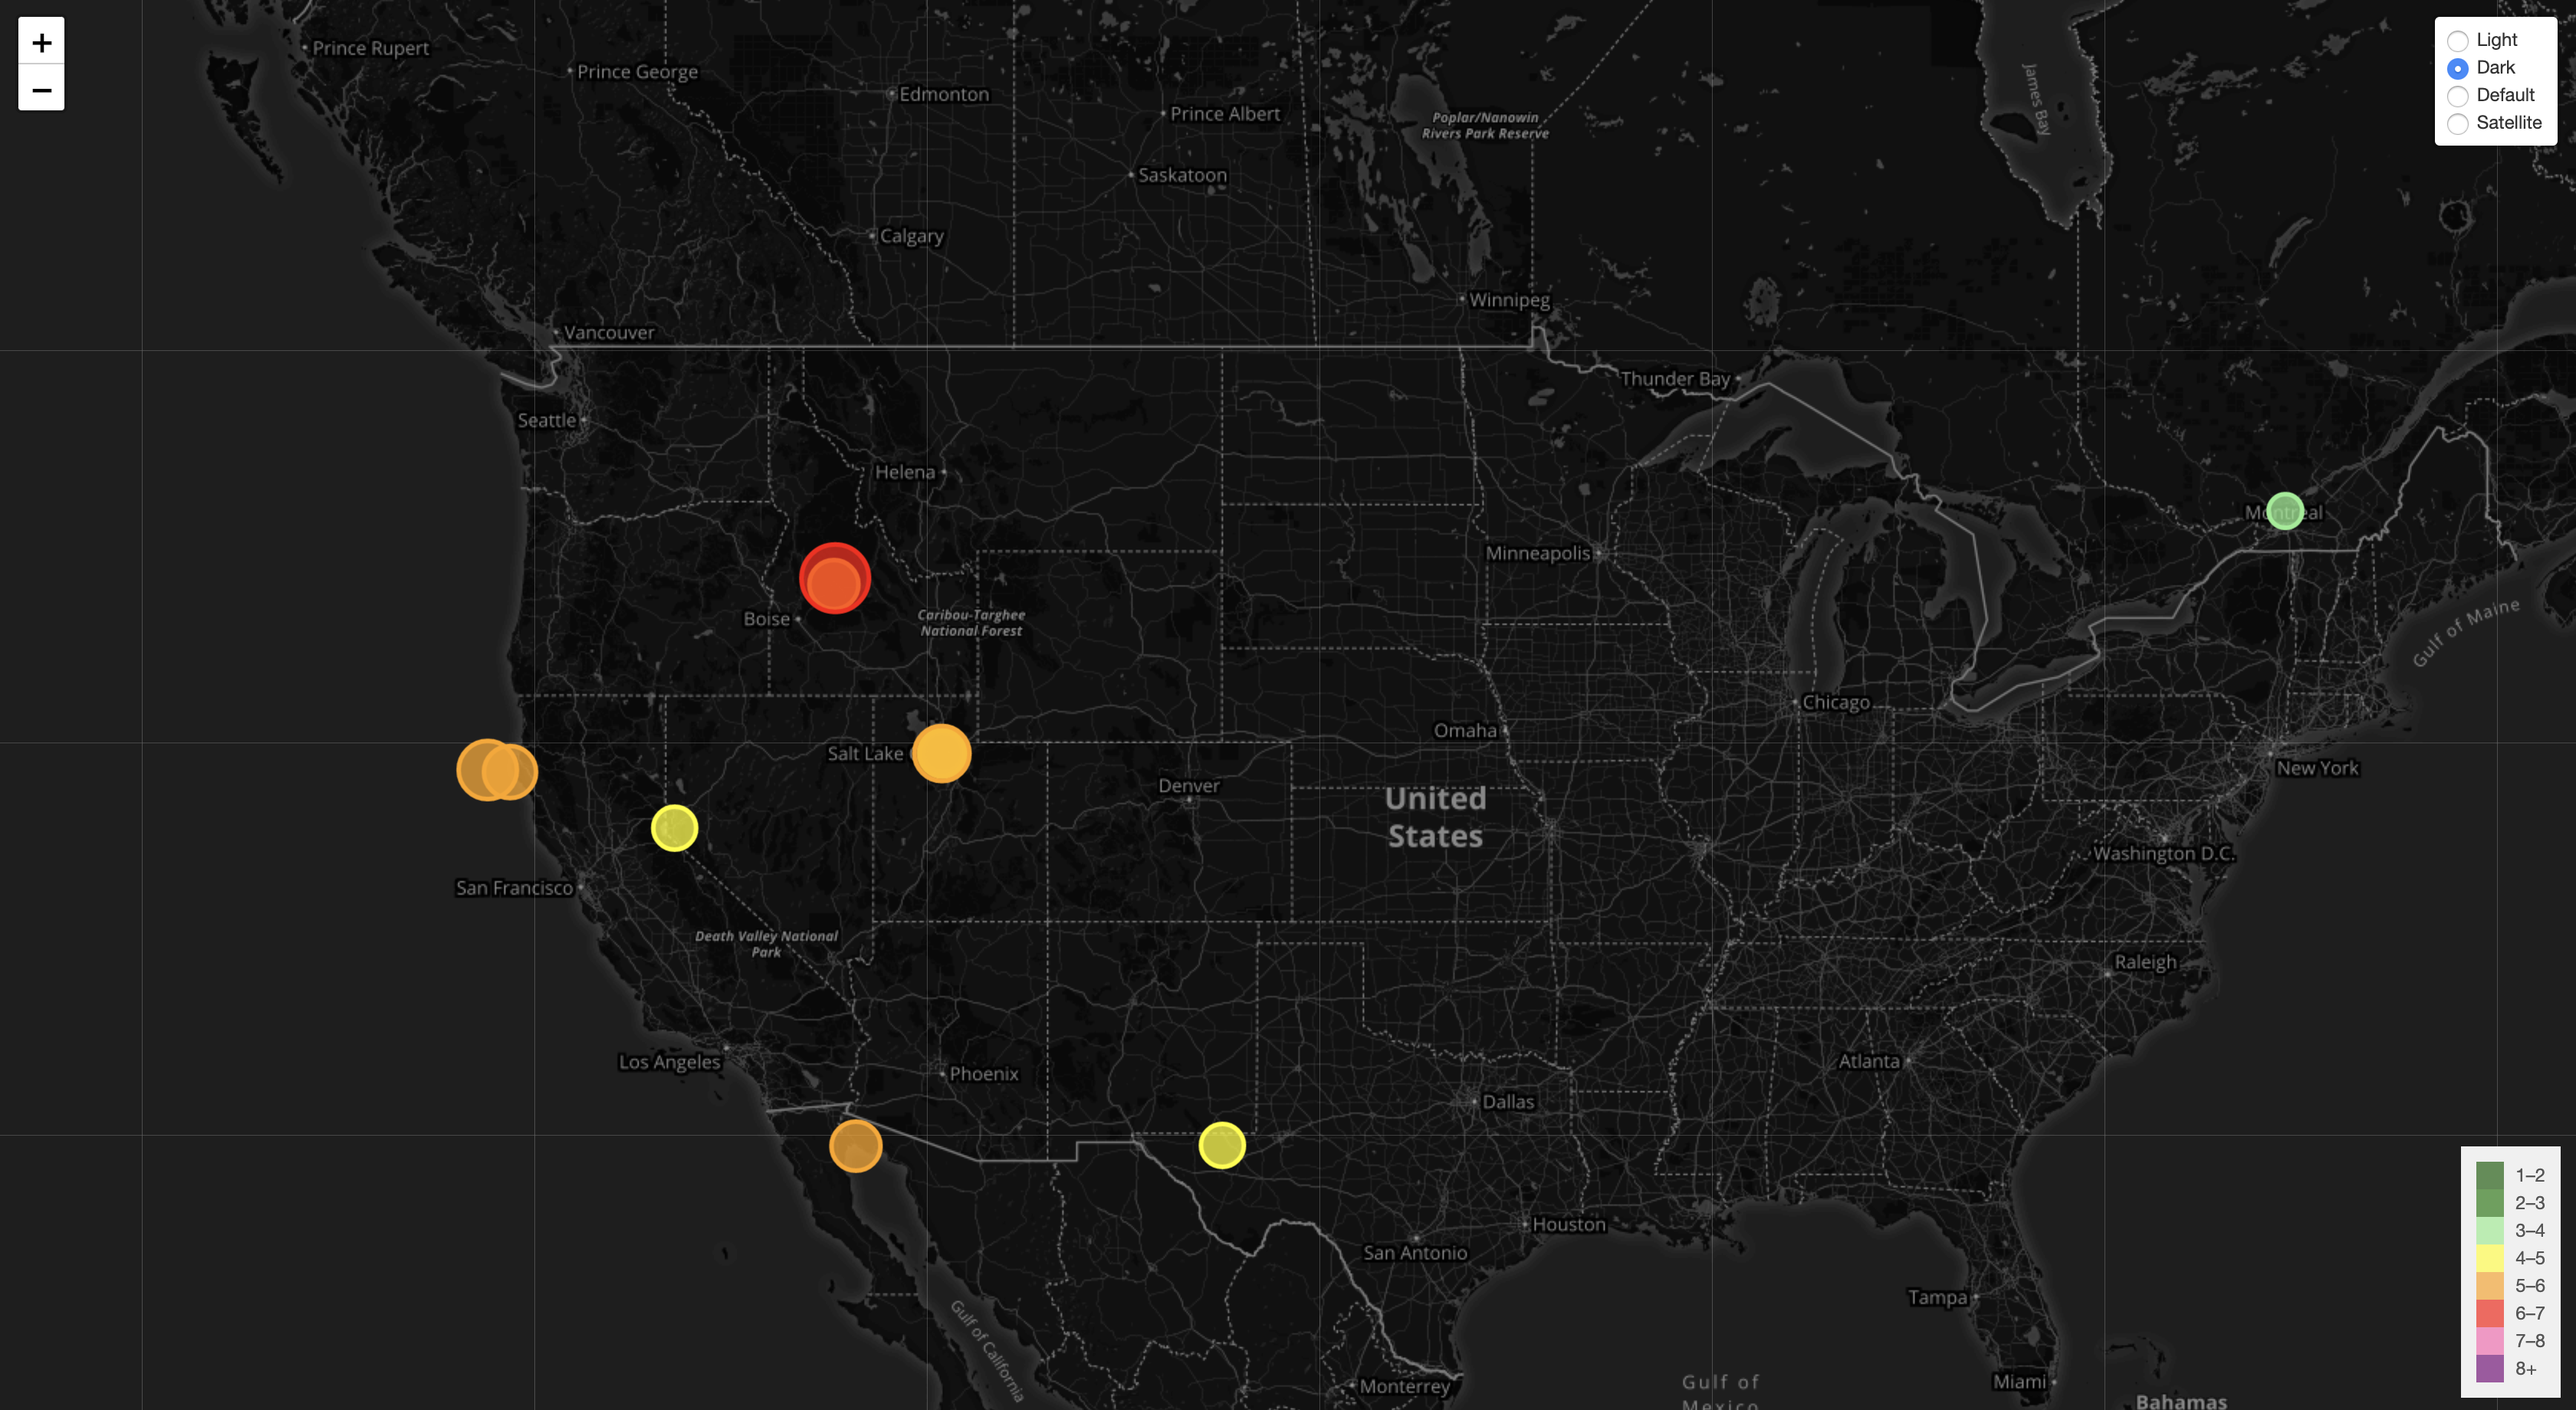
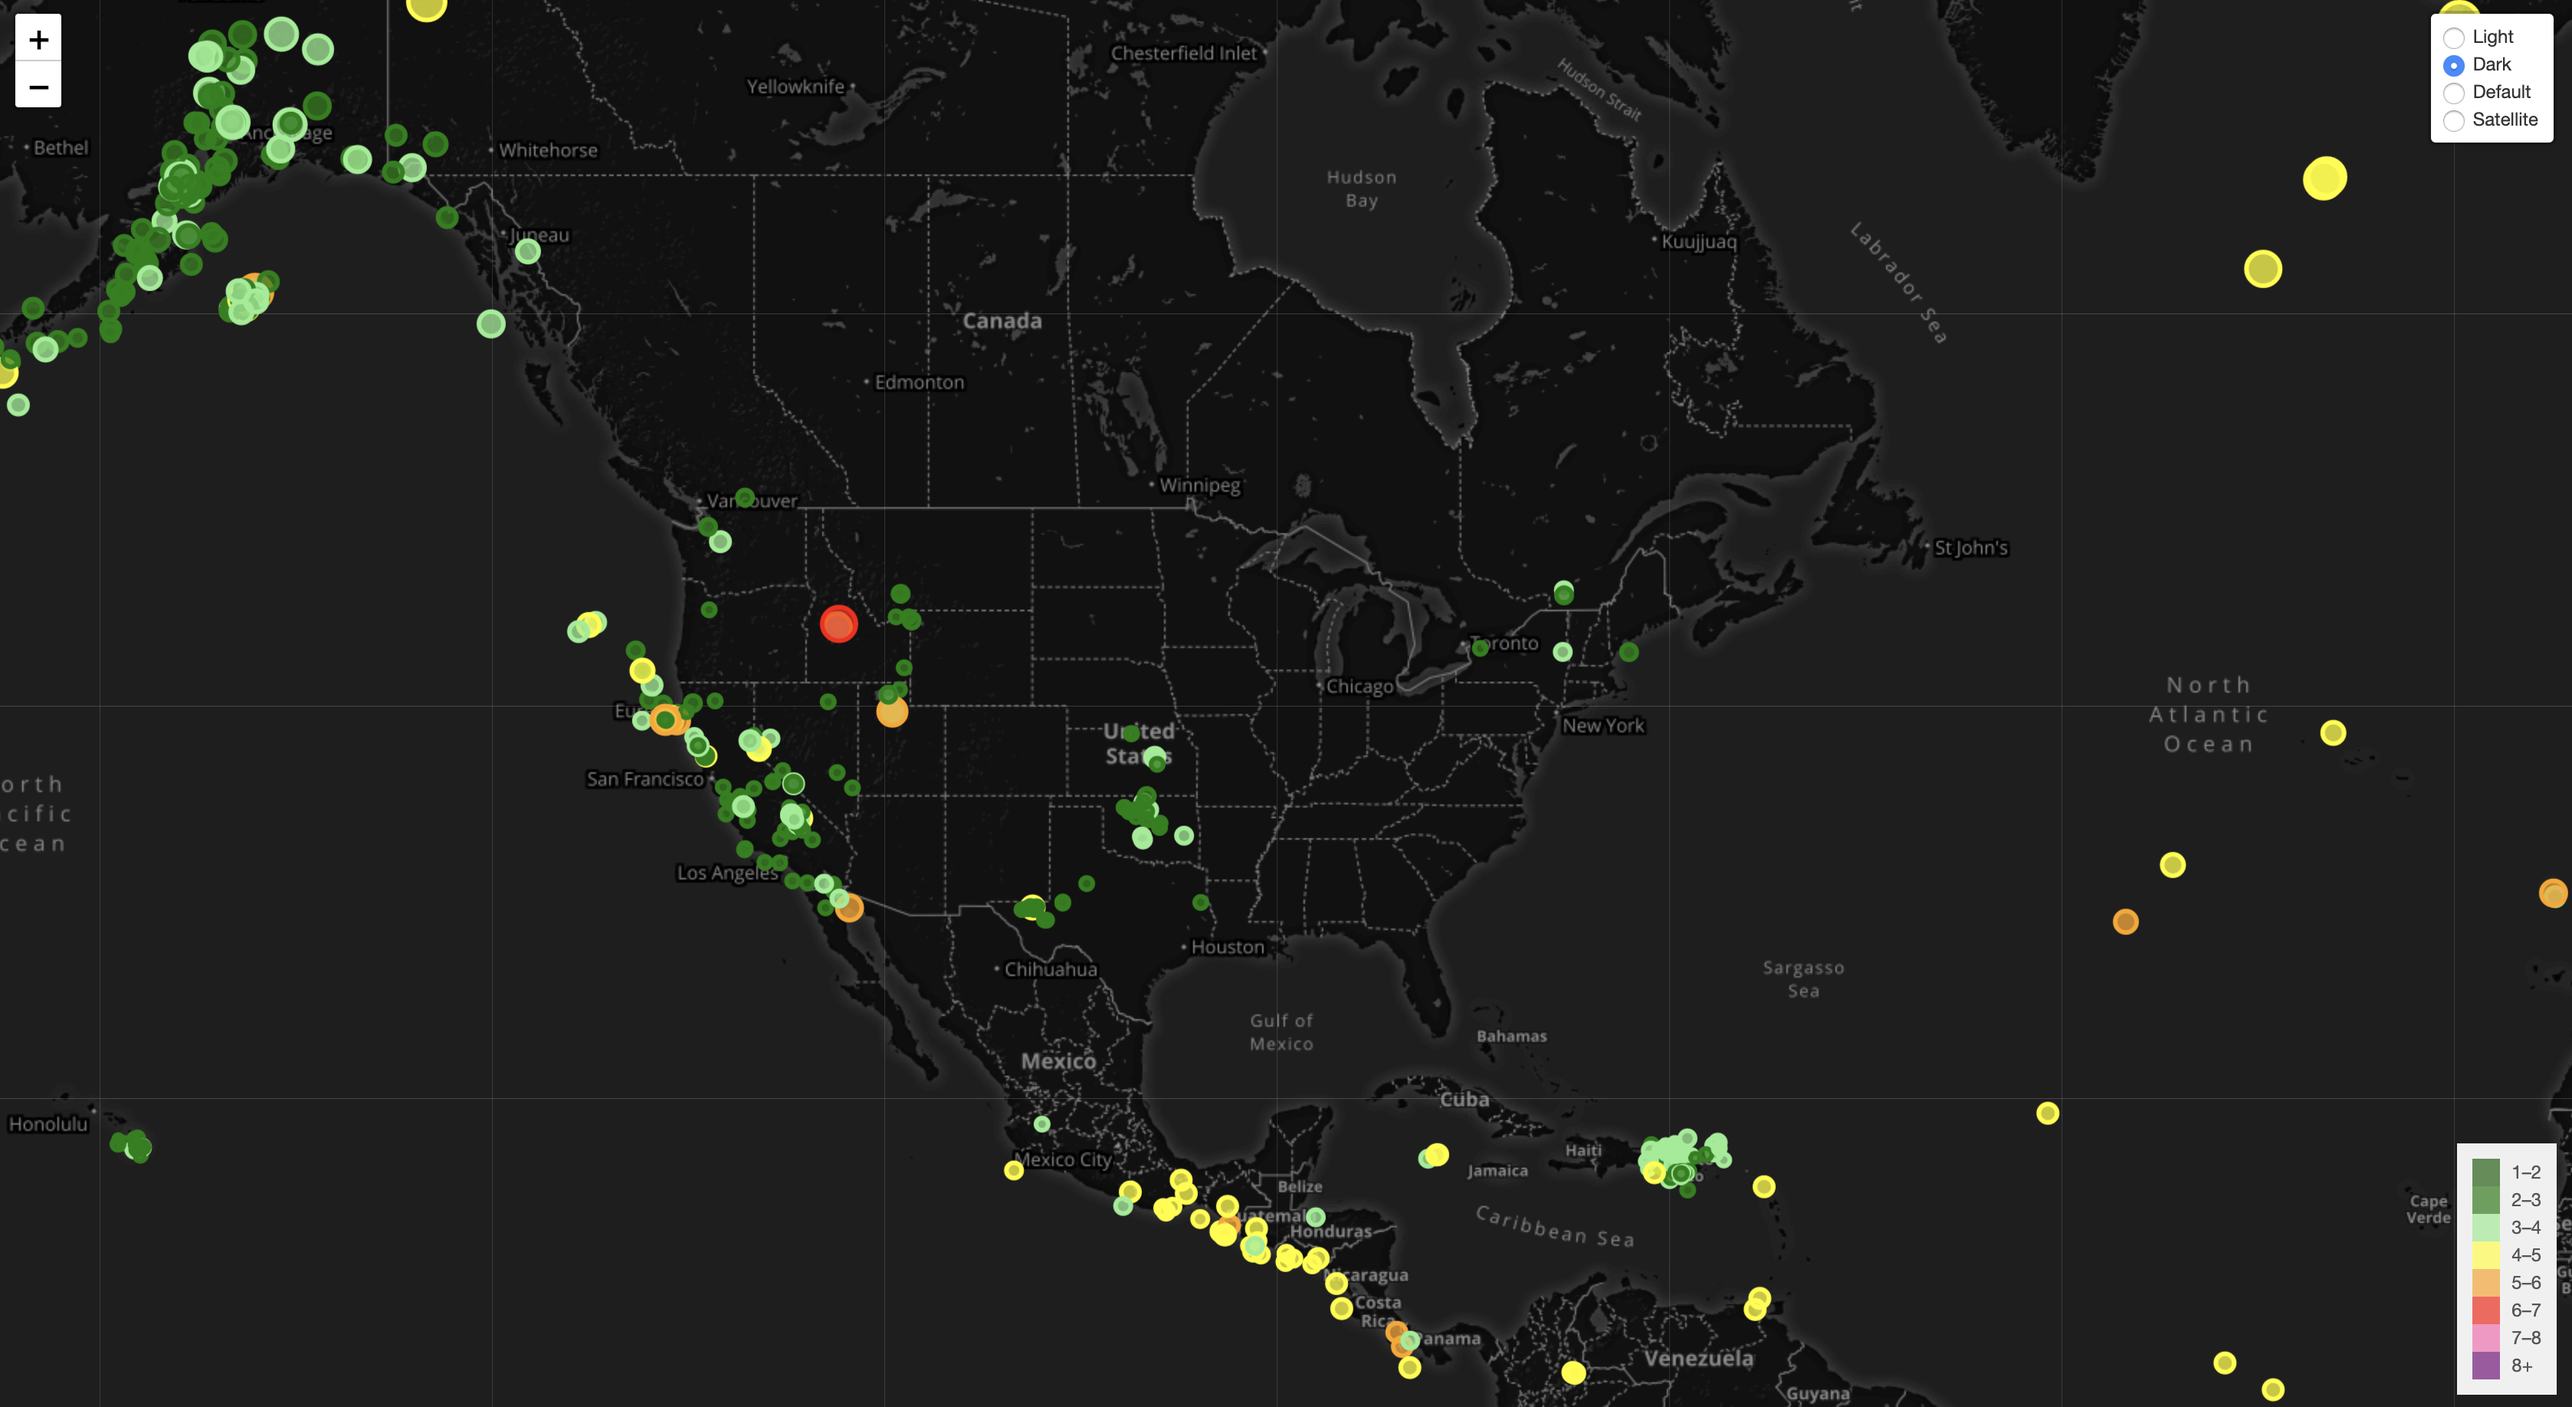
Swapped dataset

diff --git a/index.html b/index.html
@@ -1,69 +1,67 @@
 <!DOCTYPE html>
 <html lang="en">
+
 <head>
     <meta charset="UTF-8">
     <meta name="viewport" content="width=device-width, initial-scale=1.0">
     <title>Earthquakes</title>
     <style>
         body {
-        padding: 0;
-        margin: 0;
+            padding: 0;
+            margin: 0;
         }
 
         #map,
         body,
         html {
-        height: 100%;
+            height: 100%;
         }
 
-        .tooltip{
+        .tooltip {
             background-color: #333 !important;
             color: #fff !important;
         }
 
-        .colorBox{
+        .colorBox {
             height: 20px;
             width: 20px;
         }
 
         .legend {
-        line-height: 18px;
-        color: #555;
-        background-color: #f0f0f0;
-        padding: 10px;
-    }
-    .legend i {
-        width: 18px;
-        height: 18px;
-        float: left;
-        margin-right: 8px;
-        opacity: 0.7;
-    }
+            line-height: 18px;
+            color: #555;
+            background-color: #f0f0f0;
+            padding: 10px;
+        }
 
+        .legend i {
+            width: 18px;
+            height: 18px;
+            float: left;
+            margin-right: 8px;
+            opacity: 0.7;
+        }
     </style>
 
-    <!-- <link rel="stylesheet" href="https://unpkg.com/leaflet@1.3.3/dist/leaflet.css" integrity="sha512-Rksm5RenBEKSKFjgI3a41vrjkw4EVPlJ3+OiI65vTjIdo9brlAacEuKOiQ5OFh7cOI1bkDwLqdLw3Zg0cRJAAQ==" crossorigin="" />
-    <script src="https://unpkg.com/leaflet@1.3.3/dist/leaflet.js" integrity="sha512-tAGcCfR4Sc5ZP5ZoVz0quoZDYX5aCtEm/eu1KhSLj2c9eFrylXZknQYmxUssFaVJKvvc0dJQixhGjG2yXWiV9Q==" crossorigin=""></script>
-     -->
-     <script src="https://d3js.org/d3.v4.min.js"></script>
-  <!-- Leaflet CSS & JS -->
-  <link rel="stylesheet" href="https://unpkg.com/leaflet@1.3.3/dist/leaflet.css"
-  integrity="sha512-Rksm5RenBEKSKFjgI3a41vrjkw4EVPlJ3+OiI65vTjIdo9brlAacEuKOiQ5OFh7cOI1bkDwLqdLw3Zg0cRJAAQ=="
-  crossorigin=""/>
-  <script src="https://unpkg.com/leaflet@1.3.3/dist/leaflet.js"
-  integrity="sha512-tAGcCfR4Sc5ZP5ZoVz0quoZDYX5aCtEm/eu1KhSLj2c9eFrylXZknQYmxUssFaVJKvvc0dJQixhGjG2yXWiV9Q=="
-  crossorigin=""></script>
-  <!-- <script type="text/javascript" src="src/choropleth.js"></script> -->
 
-  <!--D3 cdn-->
-  <!-- <script src="https://cdnjs.cloudflare.com/ajax/libs/d3/4.5.0/d3.min.js"></script> -->
+    <script src="https://d3js.org/d3.v4.min.js"></script>
+
+    <link rel="stylesheet" href="https://unpkg.com/leaflet@1.3.3/dist/leaflet.css"
+        integrity="sha512-Rksm5RenBEKSKFjgI3a41vrjkw4EVPlJ3+OiI65vTjIdo9brlAacEuKOiQ5OFh7cOI1bkDwLqdLw3Zg0cRJAAQ=="
+        crossorigin="" />
+    <script src="https://unpkg.com/leaflet@1.3.3/dist/leaflet.js"
+        integrity="sha512-tAGcCfR4Sc5ZP5ZoVz0quoZDYX5aCtEm/eu1KhSLj2c9eFrylXZknQYmxUssFaVJKvvc0dJQixhGjG2yXWiV9Q=="
+        crossorigin=""></script>
+
 
 </head>
+
 <body>
 
     <div id="map"></div>
-    
+
 </body>
 <script src="src/config.js"></script>
 <script src="src/app.js"></script>
+
 </html>

diff --git a/src/app.js b/src/app.js
@@ -46,7 +46,8 @@ var baseMaps = {
 
 
 // Load data
-var url = 'https://earthquake.usgs.gov/earthquakes/feed/v1.0/summary/significant_month.geojson';
+// var url = 'https://earthquake.usgs.gov/earthquakes/feed/v1.0/summary/significant_month.geojson';
+var url = 'https://earthquake.usgs.gov/earthquakes/feed/v1.0/summary/2.5_month.geojson';
 
 
 // Read in json

diff --git a/README.md b/README.md
@@ -3,4 +3,4 @@
 ## Default view with tooltip ##
 ![](img/default.png)
 ## Dark theme with layer control ##
-![](dark.png)
+![](img/dark.png)
